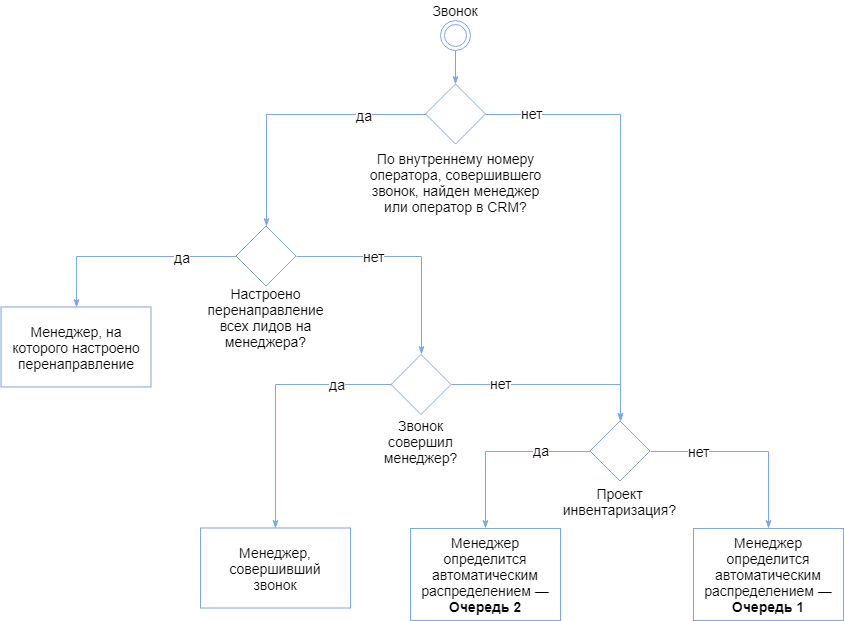
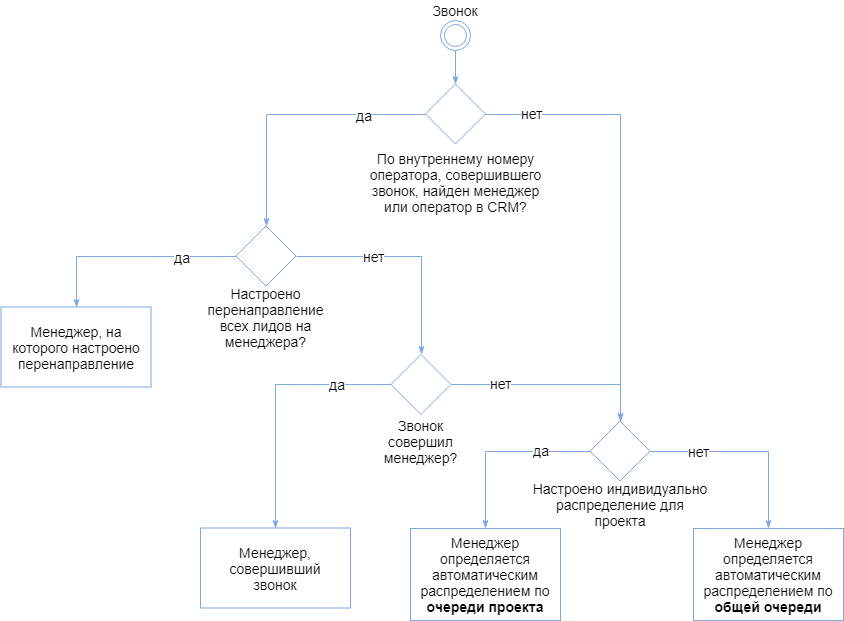
Updates leads/leadsLifecycle.md
Auto commit by GitBook Editor

diff --git a/leads/leadsLifecycle.md b/leads/leadsLifecycle.md
@@ -27,14 +27,14 @@
 После того как определен проект, выбирается менеджер для нового лида по определенным правилам. На рисунке ниже представлена схема распределения лидов (**актуальна на 05.03.2018**).
 ![](/assets/raspred-leads-alg.png)
 
-На 05.03.2018 **очередь 1** автоматического распределения лидов выглядит следующим образом:
+На 05.03.2018 **общая очередь** автоматического распределения лидов выглядит следующим образом:
 * Елена Луговая;
 * Махова Ольга;
 * Махова Ольга;
 * Плетос Виталий;
 * Плетос Виталий.
 
-На 05.03.2018 **очередь 2** автоматического распределения лидов выглядит следующим образом:
+На 05.03.2018 существует очередь автоматического распределения лидов для проекта **«Инвентаризация»**, которая выглядит следующим образом:
 * Елена Луговая;
 * Никита Козел;
 * Собкало Ольга.

diff --git a/leads/leadDocs.md b/leads/leadDocs.md
@@ -51,9 +51,12 @@
 * стандартное письмо;
 * опись.
 
-Для генерации документов используются заранее подготовленные шаблоны.
+Для генерации документов используются заранее подготовленные шаблоны. Также при генерации документов автоматически подставляются активные [услуги](../leads/leadInfo.md#leadInfo-services).
 
 ## Шаблоны документов {#leadDocs-templates}
+
+Шаблоны документов используются для генерации документов. Для просмотра всех имеющихся шаблонов необходимо нажать кнопку «Настройки» в верхнем меню CRM.
+
 
 
 ## Загрузка дополнительных файлов {#leadDocs-loadDocs}
